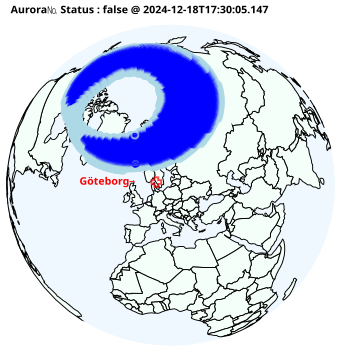
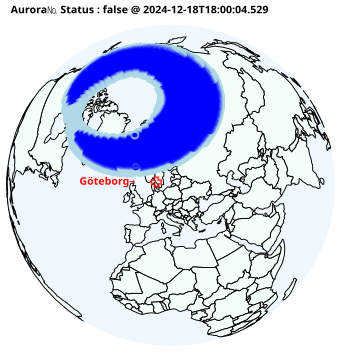
20241218180018 added aur.html

diff --git a/aur.html b/aur.html
@@ -7,6 +7,6 @@
 <body>
     <h1>Aurora Watch</h1>
     <img src="a.png" alt="Aurora Image" style="width:100%;max-width:600px;">
-    <p>Aurora Level 🌌= (0.25) was observed. (2024-12-18T17:30:05.147)</p>
+    <p>Aurora Level 🌌= (0.5) was observed. (2024-12-18T18:00:04.529)</p>
 </body>
 </html>
